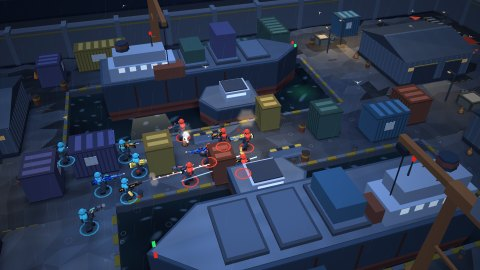
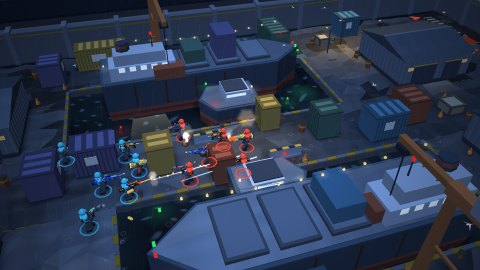
World art pass: docs, first vote cards, pier/turnstile/ruins/canopy fixes (WIP)
Claude-Session: https://claude.ai/code/session_015yPczfganKKDdg1N2GSCyT

diff --git a/js/render/themes/moods/wild.js b/js/render/themes/moods/wild.js
@@ -30,7 +30,7 @@ function brazier(ctx, x, y, z) {
 // ---- Dust: a pink-gold evening over the town --------------------------------------------------------------------
 MOODS.dust = {
   theme: {
-    light: { dir: norm([-0.86, 0.36, 0.3]), sun: [1.14, 0.72, 0.48], sky: [0.46, 0.38, 0.44], amb: [0.36, 0.3, 0.33] },
+    light: { dir: norm([-0.86, 0.36, 0.3]), sun: [1.08, 0.74, 0.52], sky: [0.46, 0.38, 0.44], amb: [0.36, 0.3, 0.33] },
     clear: 0x4a2a26,
     fog: [0.62, 0.44, 0.42], fogSeam: [0.28, 0.12, 0.06], desatTint: [0.9, 0.8, 0.78],
     shadow: { col: [0.44, 0.3, 0.44], strength: 0.72, len: 1.7 },
@@ -153,11 +153,11 @@ MOODS.canyon = {
 // ---- Ruins: sunrise mist in the clearing ---------------------------------------------------------------------------
 MOODS.ruins = {
   theme: {
-    light: { dir: norm([0.66, 0.5, 0.42]), sun: [1.04, 0.8, 0.52], sky: [0.36, 0.42, 0.42], amb: [0.27, 0.29, 0.29] },
+    light: { dir: norm([0.7, 0.42, 0.4]), sun: [1.12, 0.74, 0.46], sky: [0.34, 0.38, 0.42], amb: [0.25, 0.26, 0.3] },
     clear: 0x262c22,
     fog: [0.6, 0.62, 0.54], fogSeam: [0.22, 0.16, 0.06], desatTint: [0.88, 0.88, 0.8],
     shadow: { col: [0.32, 0.38, 0.4], strength: 0.62, len: 1.3 },
-    ink: { ground: 0x506032, grass: 0x5e7434, moss: 0x58702e },
+    ink: { ground: 0x4c5634, grass: 0x58663a, moss: 0x55663a, leaf: 0x3a5e30, leafL: 0x5a7a3a },
     weather: { fields: [
       { kind: 'mote', count: 34, box: [46, 2.2, 36], vel: [0.3, 0.02, 0.1], size: 4.6, col: [0.92, 0.92, 0.84], alpha: 0.09 },
       { kind: 'mote', count: 70, box: [38, 5, 30], vel: [0.2, 0.14, 0.1], size: 0.08, col: [1.0, 0.92, 0.6], alpha: 0.6 },
@@ -189,12 +189,12 @@ MOODS.ruins = {
 // ---- Canopy: the hour after the rain --------------------------------------------------------------------------------
 MOODS.canopy = {
   theme: {
-    light: { dir: norm([-0.22, 0.9, 0.38]), sun: [0.58, 0.64, 0.54], sky: [0.34, 0.4, 0.36], amb: [0.26, 0.3, 0.27] },
+    light: { dir: norm([-0.22, 0.9, 0.38]), sun: [0.5, 0.56, 0.5], sky: [0.34, 0.4, 0.36], amb: [0.26, 0.3, 0.27] },
     clear: 0x141c16,
     fog: [0.38, 0.48, 0.42], fogSeam: [0.08, 0.14, 0.1], desatTint: [0.8, 0.88, 0.82],
     shadow: { col: [0.3, 0.4, 0.36], strength: 0.5, len: 0.45 },
     wet: 0.6, sheen: norm([0.1, 0.9, -0.42]), sheenCol: [0.4, 0.5, 0.44],
-    ink: { ground: 0x40522c, grass: 0x4c6630, leaf: 0x2e6026, leafL: 0x4e7c2c },
+    ink: { ground: 0x3a4a2a, grass: 0x445c2e, leaf: 0x2e6026, leafL: 0x4e7c2c },
     weather: { fields: [
       { kind: 'rain', count: 140, box: [36, 14, 28], vel: [-0.6, -12, 0.6], len: 0.5, width: 0.011, col: [0.8, 0.9, 0.84], alpha: 0.18 },
       { kind: 'ripple', count: 60, box: [34, 1, 26], life: 0.7, size: 0.5, col: [0.76, 0.9, 0.82], alpha: 0.28 },

diff --git a/js/render/themes/moods/urban.js b/js/render/themes/moods/urban.js
@@ -289,11 +289,8 @@ MOODS.turnstile = {
     emit: map => ofKind(map, 'wall').filter((_, i) => i % 3 === 0).map(w => ({ x: w.x + w.w / 2, z: w.z + w.d / 2, y: 3.2, kind: 'drip', rate: 1 })),
   },
   ground(ctx, p, c) {
-    // The line's roundel set into the concourse floor at the middle of the map, and leaks pooling by the walls.
-    const { W, H } = ctx, x = p[0], z = p[2];
-    const d = Math.hypot((x - W / 2) * 0.8, z - H / 2);
-    if (d > 2.6 && d < 3.6) return [0.52, 0.16, 0.14];
-    if (Math.abs(z - H / 2) < 0.55 && Math.abs(x - W / 2) < 4.4) return [0.16, 0.24, 0.42];
+    // Leaks pooling on the platforms and concourse.
+    const x = p[0], z = p[2];
     if (ctx.noise(x * 0.6 + 70, z * 0.6) > 0.7) { ctx.groundWet = 1; return scale(c, 0.7); }
     return c;
   },
@@ -359,12 +356,14 @@ MOODS.foundry = {
   },
 };
 
+const halls = map => flagged(map, 'boathouse').filter((_, i) => i % 2 === 0);   // Two of the boathouses keep a stove going.
+
 // ---- Pier: a breezy grey morning, gulls and bunting ----------------------------------------------------------------
 MOODS.pier = {
-  life: { flock: 16, ground: 10, emit: map => flagged(map, 'hall').map(w => ({ x: w.x + w.w - 1, z: w.z + 1, y: w.h + 1.4, kind: 'smoke', rate: 0.6, col: [0.6, 0.62, 0.66] })) },
+  life: { flock: 16, ground: 10, emit: map => halls(map).map(w => ({ x: w.x + w.w - 1, z: w.z + 1, y: w.h + 1.4, kind: 'smoke', rate: 0.6, col: [0.6, 0.62, 0.66] })) },
   decor(ctx) {
     const { map } = ctx, I = ctx.theme.ink;
-    for (const w of flagged(map, 'hall')) {
+    for (const w of halls(map)) {
       stack(ctx, w.x + w.w - 1, w.h - 0.2, w.z + 1, 1.5, 0.22, I.red, I.tar);
       bunting(ctx, w.x - 0.2, w.z + w.d + 0.1, w.x + w.w + 0.2, w.z + w.d + 0.1, w.h + 0.1, [I.red, I.white, I.blue, I.buoy], { sag: 0.5 });
     }

diff --git a/docs/MAPS-OVERHAUL.md b/docs/MAPS-OVERHAUL.md
@@ -85,3 +85,29 @@ The second battle royale island and two Ground War maps cut from its coast (Tide
 (js/render/themes/frontier.js) with the island's palette, so they share the island's buildings (enterable, roofs that
 dissolve round you), beaches, shallows (walkable, slow: `map.shallows`) and landmarks. Build such a map with
 js/shared/maps/isle-kit.js: a symmetric land/water lattice (`lattice`, `water`) and `twins` for each piece and its image.
+
+## World art pass on the older maps (ROADMAP 53)
+Every 6v6 and Ground War map made before 2026-11-20 gets a per-map **mood** in `js/render/themes/moods/` (urban.js:
+Railyard, Harbor, Neon, Overpass, Downtown, Turnstile, Topside, Foundry, Pier; wild.js: Dust, Oasis, Canyon, Ruins,
+Canopy, Riverbend, Expedition, Sunken, Frostline, Icebreaker, Harvest, Millbrook). Art only: no map file changed, so
+collision, cover, spawns, objectives and nav are untouched and `dev/map-validate.mjs` prints the same results.
+- `MOODS.<mapId> = { theme, life, lights, ground, paint, decor, thumb }`, registered into `MOODS` (js/render/art.js)
+  the way theme modules register `THEMES`. `themeFor(map)` merges `theme` (light, fog, clear, shadow, lamp, water,
+  weather, `sky` for the horizon ring, `ink` as hex) over the base theme and keeps the base id, so every table keyed by
+  theme id still works. Maps that share a theme now differ: desert (Dust pink-gold evening, Oasis misty dawn, Canyon
+  red-rock sunset), jungle (Ruins sunrise mist, Canopy after rain, Riverbend gold afternoon, Expedition monsoon with
+  lightning), metro (Neon ultraviolet night, Overpass sodium smog dusk, Downtown teal rainy blue hour), arctic
+  (Frostline aurora night, Icebreaker polar noon).
+- buildWorld runs `lights` after the theme's lights (so lamps bake), `ground(ctx, p, colour)` over the theme's ground
+  shader (free: plazas, the Dust star, the Turnstile roundel, oil stains), `paint` and `decor` after the theme's. New
+  solids only sit on blocking pieces, outside the border or flat on the ground (helpers in moods/lib.js: beacon,
+  festoon, bunting, waterTower, mast, stack, disc, scatter).
+- `life` overrides the theme's LIFE entry in ambient.js; `life.emit` (array or `map => [...]`) places fixed emitters
+  (smoke, steam, ember, spray, mist, drip, spark) that ride the VFX particle batch: no draw call, skipped off screen,
+  thinned on Low Power.
+- Landmarks: Railyard water tower, Overpass clock tower and brick plaza, Downtown fountain statue and jet, Dust
+  well-head and tiled star, Canyon dam mast and floodlight, Ruins altar braziers, Canopy lookout lantern and flag,
+  Riverbend idol's lamp ring, Expedition's burning wreck and tower lights, Frostline depot chimney and clock,
+  Icebreaker funnels, Neon's roof roundel and lantern strings, Topside's crane mast, Harvest and Millbrook chimneys.
+- Budget: each map stays at or under its draw calls and triangles before the pass +15% (measured with
+  `dev/perf-render.mjs --root=<before checkout>`; table in the ROADMAP 53 report).
